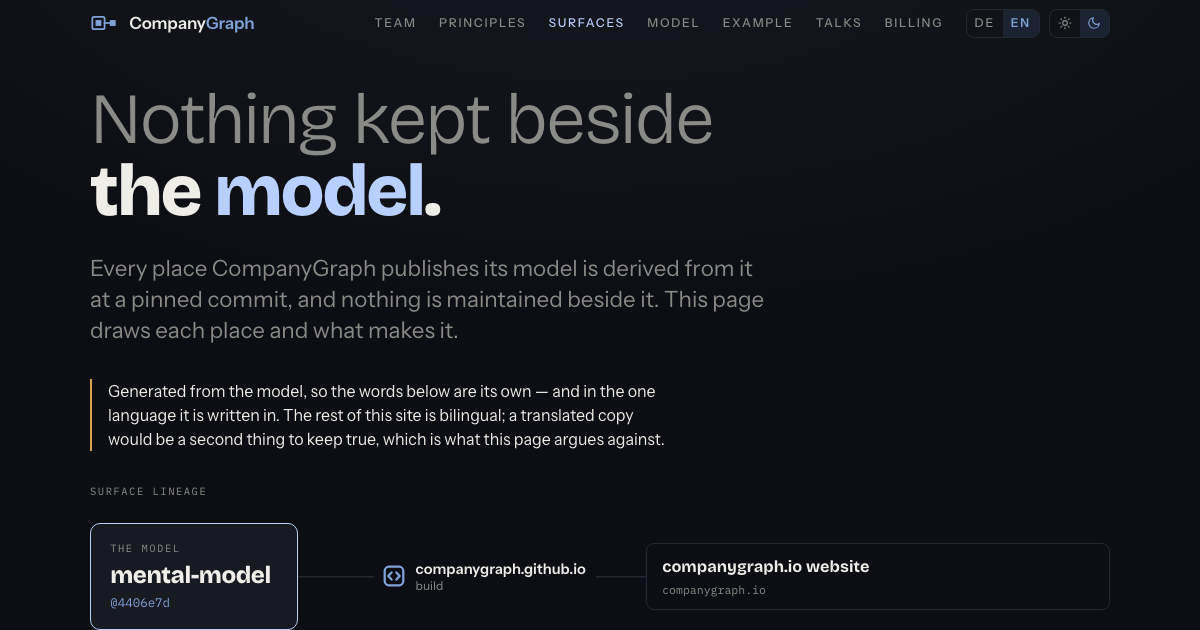
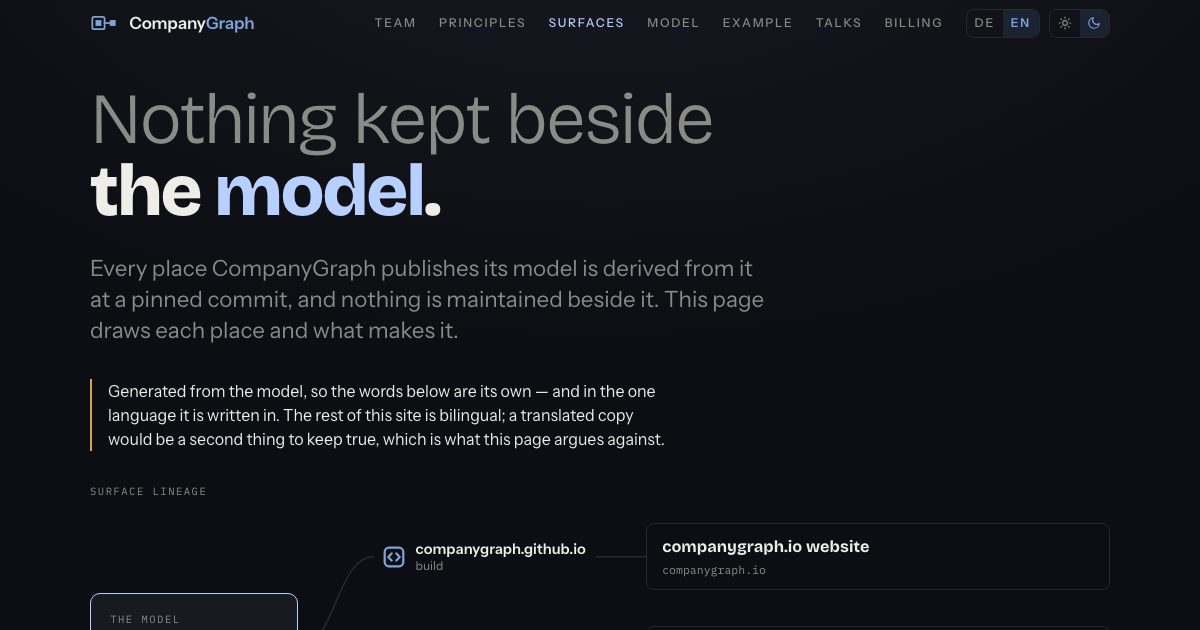
companygraph.io draws the model that names its MCP server
companygraph/mental-model#16 added mcp.companygraph.io's MCP server and its Registry listing as surfaces, both built by companygraph/mcp-companygraph-io, so the site's mental-model pin moves to its merge commit and company.json is rebuilt from it. Surfaces now draws that repository as a maker with both places under it, and the four cards that draw company.json are re-rendered; only the Surfaces card looks different.

Verified: build, pages and sitemap rewrite nothing further; design:check, build:check, pages:check, test:build, og:check, test:og, test:d3, sitemap:check, pin:check and verify exit 0; conventions-format and conventions-check exit 0.

diff --git a/surfaces/index.html b/surfaces/index.html
@@ -771,12 +771,19 @@
       <!-- surfaces:start -->
       <div class="lineage" id="lineage">
         <svg class="wires" id="wires" aria-hidden="true"></svg>
-        <div class="ln-model" id="lnmodel"><div class="lbl" data-de="Das Modell">The model</div><div class="nm">mental-model</div><div class="at mono">@4406e7d</div></div>
+        <div class="ln-model" id="lnmodel"><div class="lbl" data-de="Das Modell">The model</div><div class="nm">mental-model</div><div class="at mono">@ff8611c</div></div>
         <ul class="ln-groups">
           <li class="ln-group">
             <div class="ln-maker" data-maker="https://github.com/companygraph/companygraph.github.io"><svg class="mk build" aria-hidden="true"><use href="#m-build"/></svg><span class="who">companygraph.github.io<span class="how" data-de="Build">build</span></span></div>
             <ul class="ln-surfaces">
               <li><button class="ln-s" type="button" id="companygraph-io-website" data-id="surfaces/companygraph-io-website" data-maker="https://github.com/companygraph/companygraph.github.io" aria-pressed="false" aria-controls="lnpanel"><span class="nm">companygraph.io website</span><span class="host">companygraph.io</span></button></li>
+            </ul>
+          </li>
+          <li class="ln-group">
+            <div class="ln-maker" data-maker="https://github.com/companygraph/mcp-companygraph-io"><svg class="mk build" aria-hidden="true"><use href="#m-build"/></svg><span class="who">mcp-companygraph-io<span class="how" data-de="Build">build</span></span></div>
+            <ul class="ln-surfaces">
+              <li><button class="ln-s" type="button" id="mcp-registry-listing" data-id="surfaces/mcp-registry-listing" data-maker="https://github.com/companygraph/mcp-companygraph-io" aria-pressed="false" aria-controls="lnpanel"><span class="nm">MCP Registry listing</span><span class="host">registry.modelcontextprotocol.io/v0/servers</span></button></li>
+              <li><button class="ln-s" type="button" id="mcp-companygraph-io-mcp-server" data-id="surfaces/mcp-companygraph-io-mcp-server" data-maker="https://github.com/companygraph/mcp-companygraph-io" aria-pressed="false" aria-controls="lnpanel"><span class="nm">mcp.companygraph.io MCP server</span><span class="host">mcp.companygraph.io</span></button></li>
             </ul>
           </li>
         </ul>

diff --git a/principles/index.html b/principles/index.html
@@ -682,7 +682,7 @@
       </article>
     </section>
 
-    <p class="derived" data-de="Erzeugt aus <a href='https://github.com/companygraph/mental-model'>companygraph/mental-model</a>@4406e7d – <code class='mono'>model/vision.md</code> und <code class='mono'>model/values/</code>. Dieses Repository ist eine Instanz von <a href='https://companygraph.io/'>CompanyGraph</a>, einem Meta-Modell, das ein Unternehmen als Graph aus Markdown beschreibt.">Generated from <a href="https://github.com/companygraph/mental-model">companygraph/mental-model</a>@4406e7d — <code class="mono">model/vision.md</code> and <code class="mono">model/values/</code>. That repository is an instance of <a href="https://companygraph.io/">CompanyGraph</a>, a meta-model for describing a company as a graph of Markdown.</p>
+    <p class="derived" data-de="Erzeugt aus <a href='https://github.com/companygraph/mental-model'>companygraph/mental-model</a>@ff8611c – <code class='mono'>model/vision.md</code> und <code class='mono'>model/values/</code>. Dieses Repository ist eine Instanz von <a href='https://companygraph.io/'>CompanyGraph</a>, einem Meta-Modell, das ein Unternehmen als Graph aus Markdown beschreibt.">Generated from <a href="https://github.com/companygraph/mental-model">companygraph/mental-model</a>@ff8611c — <code class="mono">model/vision.md</code> and <code class="mono">model/values/</code>. That repository is an instance of <a href="https://companygraph.io/">CompanyGraph</a>, a meta-model for describing a company as a graph of Markdown.</p>
     <!-- principles:end -->
   </div>
 </main>
